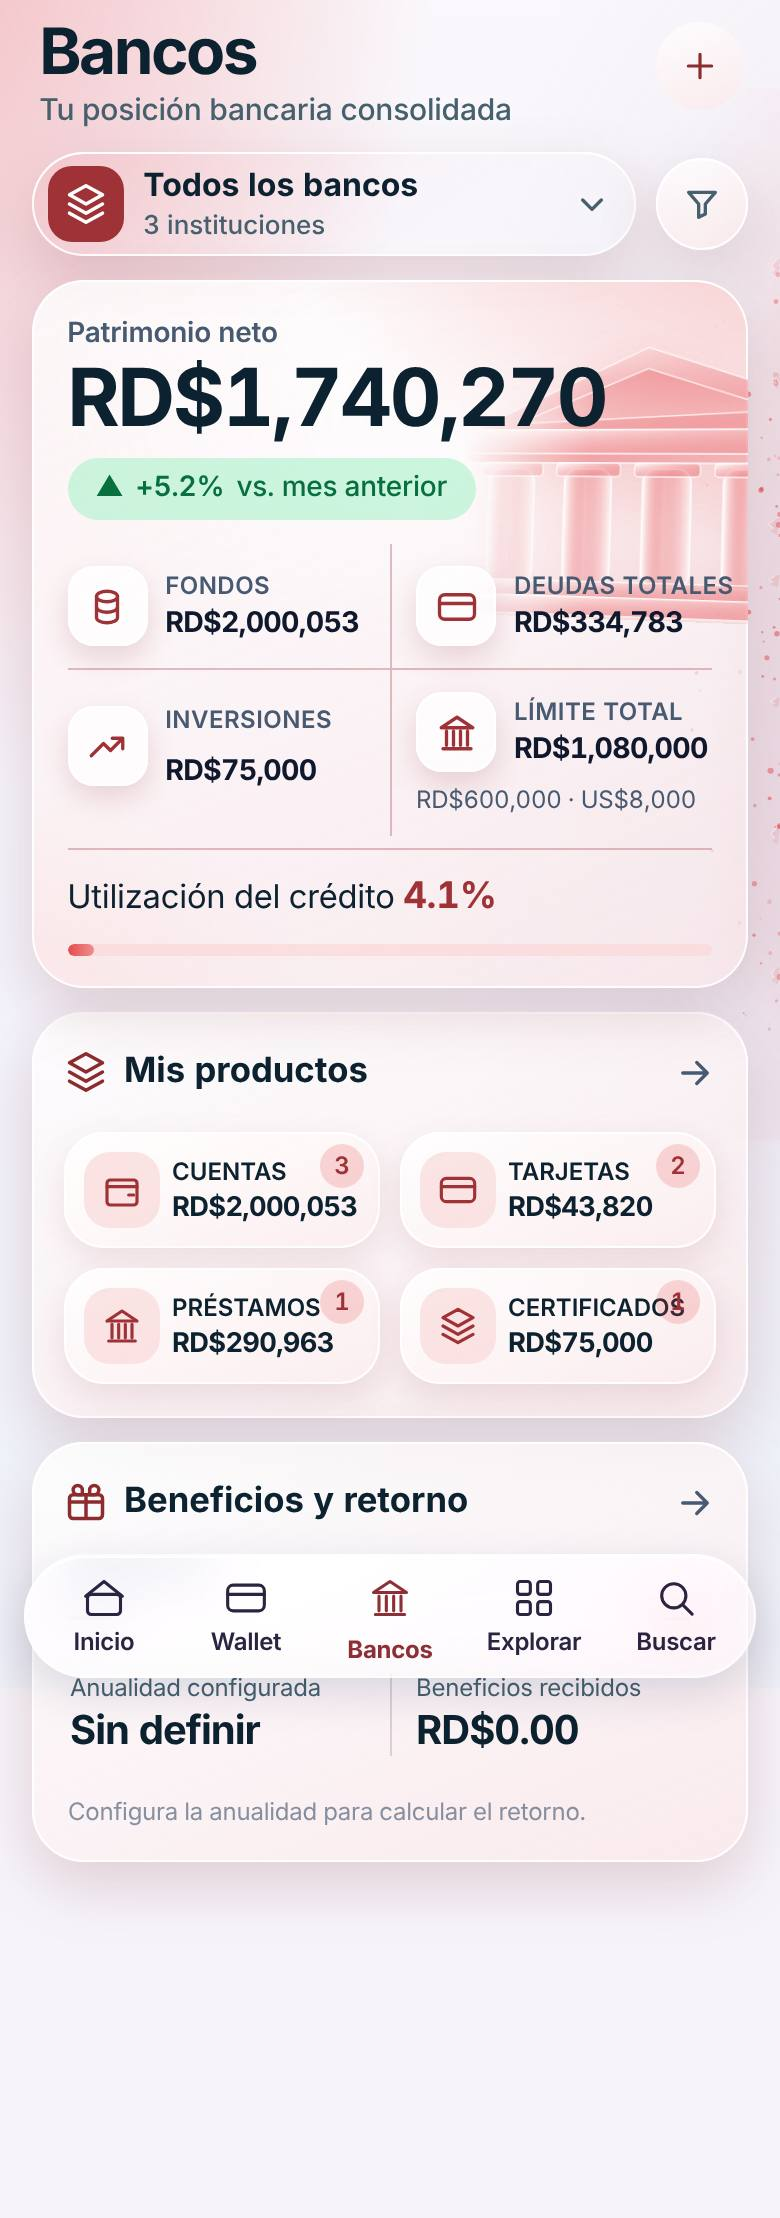
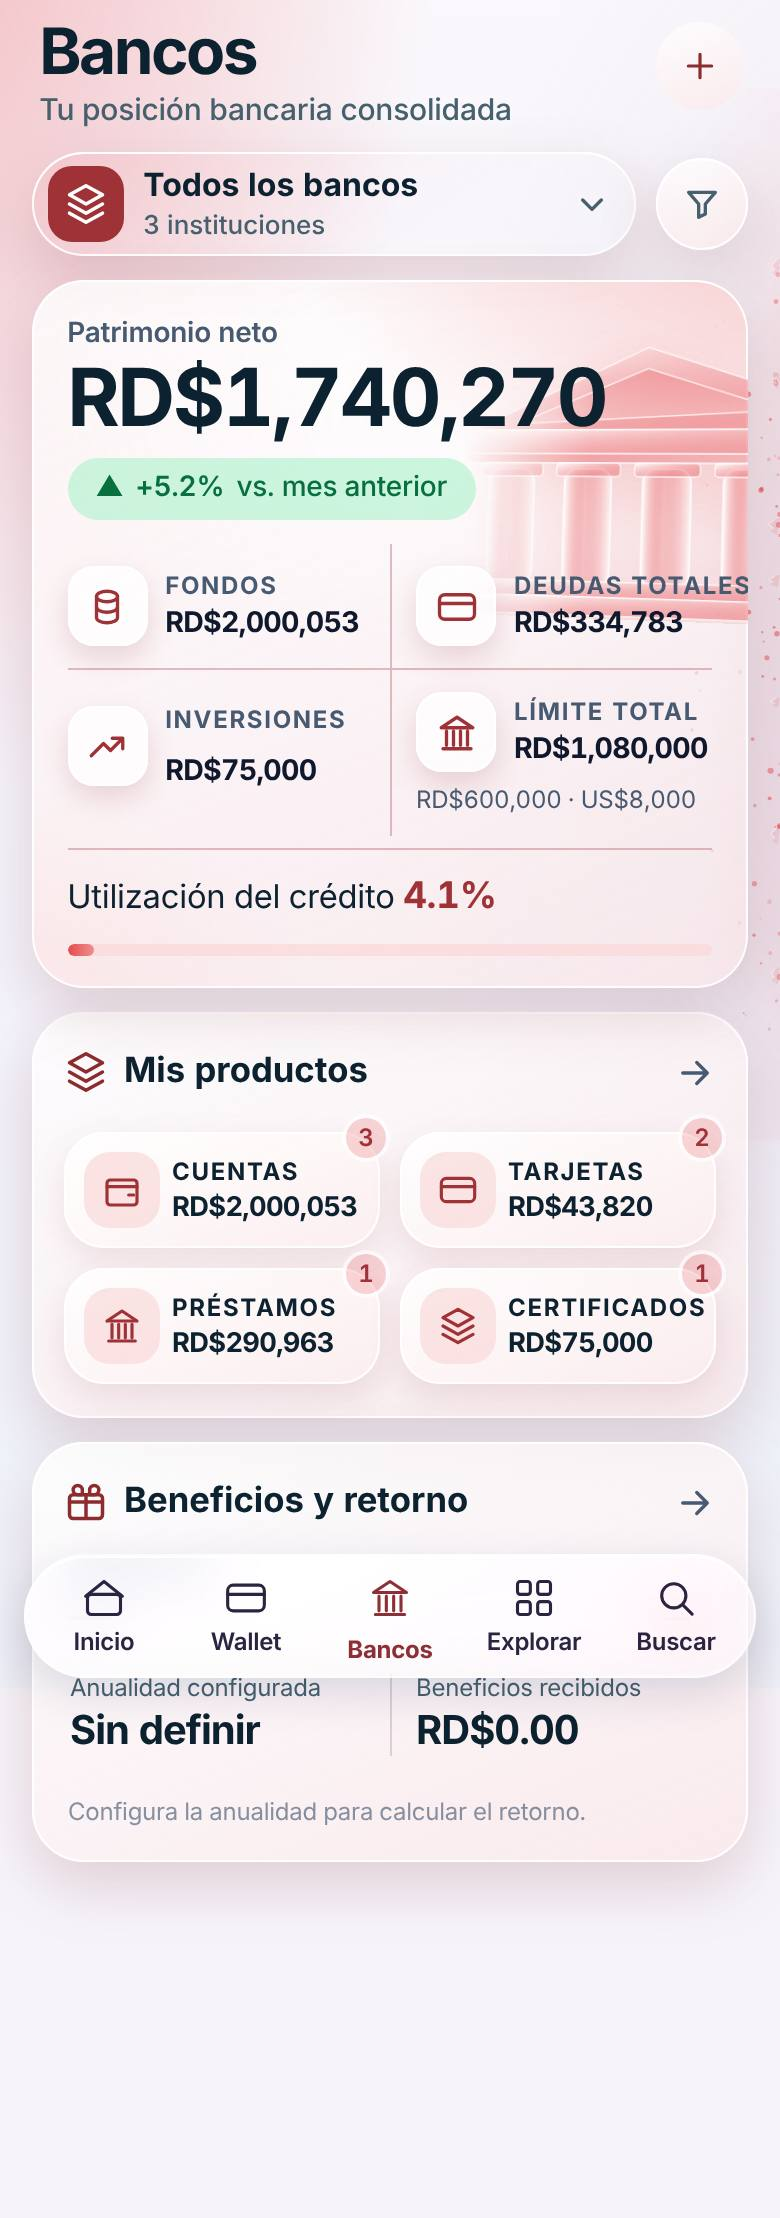
Bancos móvil: rótulos con exactamente la tipografía de Wallet (12 px, peso 700, espaciado 0,07 em); contadores como insignia en la esquina
Claude-Session: https://claude.ai/code/session_01AwzF8JXGCqasa7rHAy2PHn

diff --git a/src/banks-mobile-glass.css b/src/banks-mobile-glass.css
@@ -267,3 +267,11 @@ html body #app#app#app#app #page#page .vBanks-mobile:has(>.vBanks-mobile-hero) .
 html body #app#app#app#app #page#page .vBanks-mobile:has(>.vBanks-mobile-hero) .vBanks-mobile-tiles>button>small,html body #app#app#app#app #page#page .vBanks-mobile:has(>.vBanks-mobile-hero) .vBanks-mobile-tiles>button>em{min-width:22px;height:22px;top:6px;right:8px}
 html body #app#app#app#app #page#page .vBanks-mobile:has(>.vBanks-mobile-hero) .vBanks-mobile-hero dl dt{letter-spacing:.02em!important}
 @media(max-width:360px){html body #app#app#app#app #page#page .vBanks-mobile:has(>.vBanks-mobile-hero) :is(.vBanks-mobile-hero dl dt,.vBanks-mobile-tiles>button>span){white-space:normal!important;overflow-wrap:anywhere;text-transform:none!important;letter-spacing:0!important;font-weight:600!important}}
+/* Mismo rótulo que Wallet: 12 px, peso 700, espaciado 0,07 em, mayúsculas */
+@media(min-width:361px){
+html body #app#app#app#app#app #page#page .vBanks-mobile:has(>.vBanks-mobile-hero) :is(.vBanks-mobile-hero dl dt,.vBanks-mobile-tiles>button>span){font-size:12px!important;font-weight:700!important;letter-spacing:.07em!important;text-transform:uppercase!important}
+html body #app#app#app#app#app #page#page .vBanks-mobile:has(>.vBanks-mobile-hero) .vBanks-mobile-tiles>button>span{padding-right:22px!important}
+html body #app#app#app#app#app #page#page .vBanks-mobile:has(>.vBanks-mobile-hero) .vBanks-mobile-tiles>button>small,html body #app#app#app#app#app #page#page .vBanks-mobile:has(>.vBanks-mobile-hero) .vBanks-mobile-tiles>button>em{min-width:20px;height:20px;font-size:12px;top:4px;right:6px}
+}
+@media(min-width:361px){html body #app#app#app#app#app #page#page .vBanks-mobile:has(>.vBanks-mobile-hero) .vBanks-mobile-tiles>button{overflow:visible}
+html body #app#app#app#app#app #page#page .vBanks-mobile:has(>.vBanks-mobile-hero) .vBanks-mobile-tiles>button>small,html body #app#app#app#app#app #page#page .vBanks-mobile:has(>.vBanks-mobile-hero) .vBanks-mobile-tiles>button>em{top:-7px;right:-3px;box-shadow:0 0 0 2px var(--vx-glass-1,rgba(255,255,255,.85))}}

diff --git a/index.html b/index.html
@@ -35,7 +35,7 @@
 <link rel="stylesheet" href="./src/desktop-legibility.css?v=2011"/>
 <link rel="stylesheet" href="./src/bancos-pc-glass.css?v=541&b=3" media="(min-width: 791px)"/>
 <link rel="stylesheet" href="./src/banks-mobile-legibility.css?v=41" media="(max-width: 790px)"/>
-<link rel="stylesheet" href="./src/banks-mobile-glass.css?v=8.1.1.1.1.1.1.1.1.1.1.119" media="(max-width: 790px)"/>
+<link rel="stylesheet" href="./src/banks-mobile-glass.css?v=8.1.1.1.1.1.1.1.1.1.1.121" media="(max-width: 790px)"/>
 <link rel="stylesheet" href="./src/wallet-glass.css?v=913"/>
 <link rel="stylesheet" href="./src/wallet-reference-fidelity.css?v=81"/>
 <link rel="stylesheet" href="./src/wallet-mobile-approved.css?v=41" media="(max-width: 790px)"/>
@@ -54,7 +54,7 @@
 </head>
 <body>
 <div id="app"></div><div id="modal-root"></div><div id="toast-root"></div>
-<script src="./vendor/supabase.js?v=2.119.0"></script>
+<script src="./vendor/supabase.js?v=2.121.0"></script>
 <script src="./src/supabase-rpc-guard.js?v=1"></script>
 <script src="./src/lib/finanzas/reglas.js?v=2"></script>
 <script src="./src/navigation/config.js?v=1"></script>
